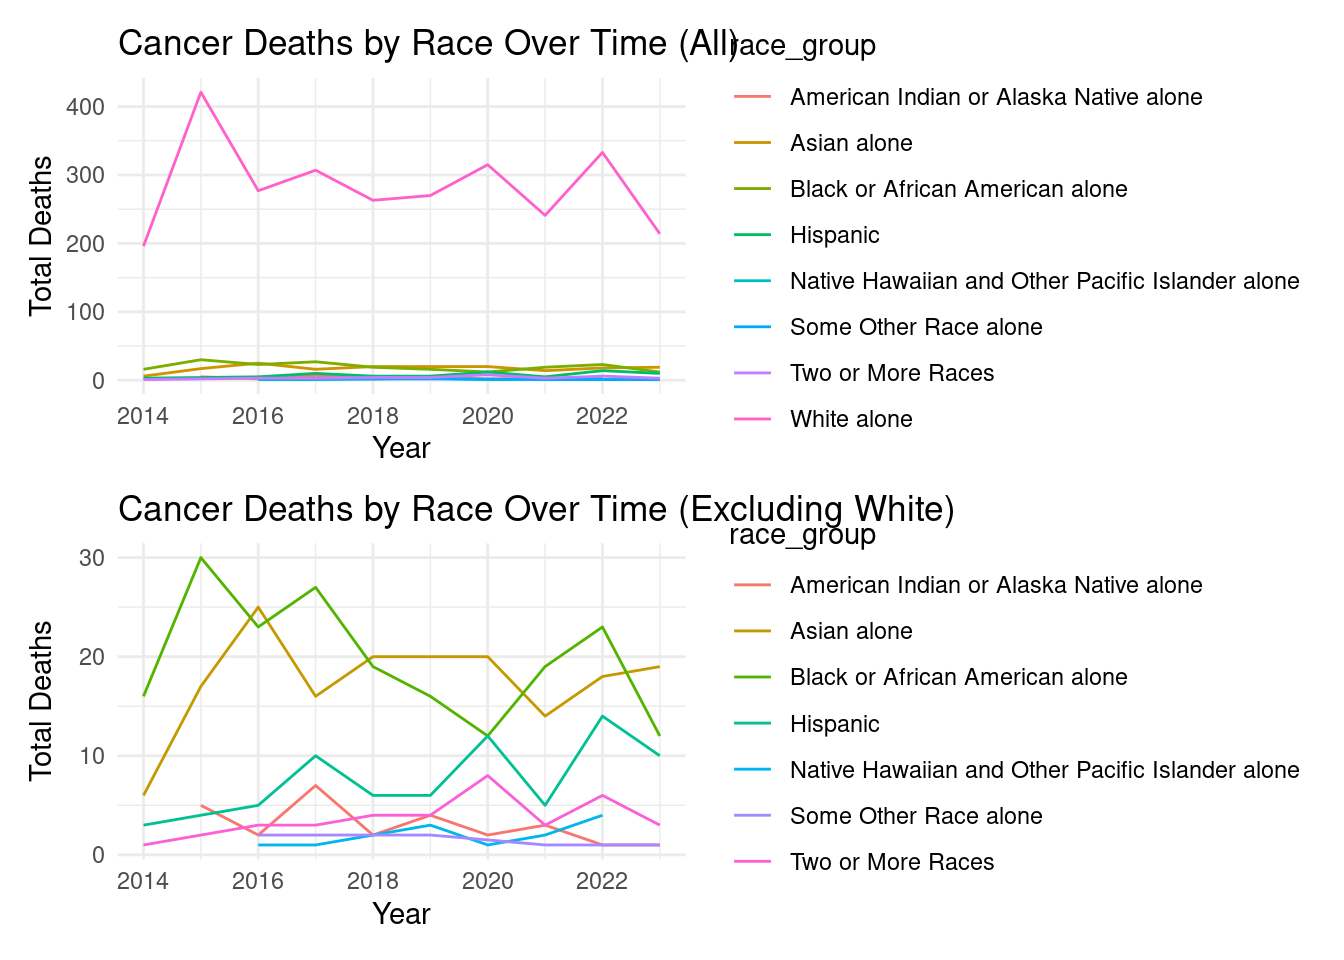
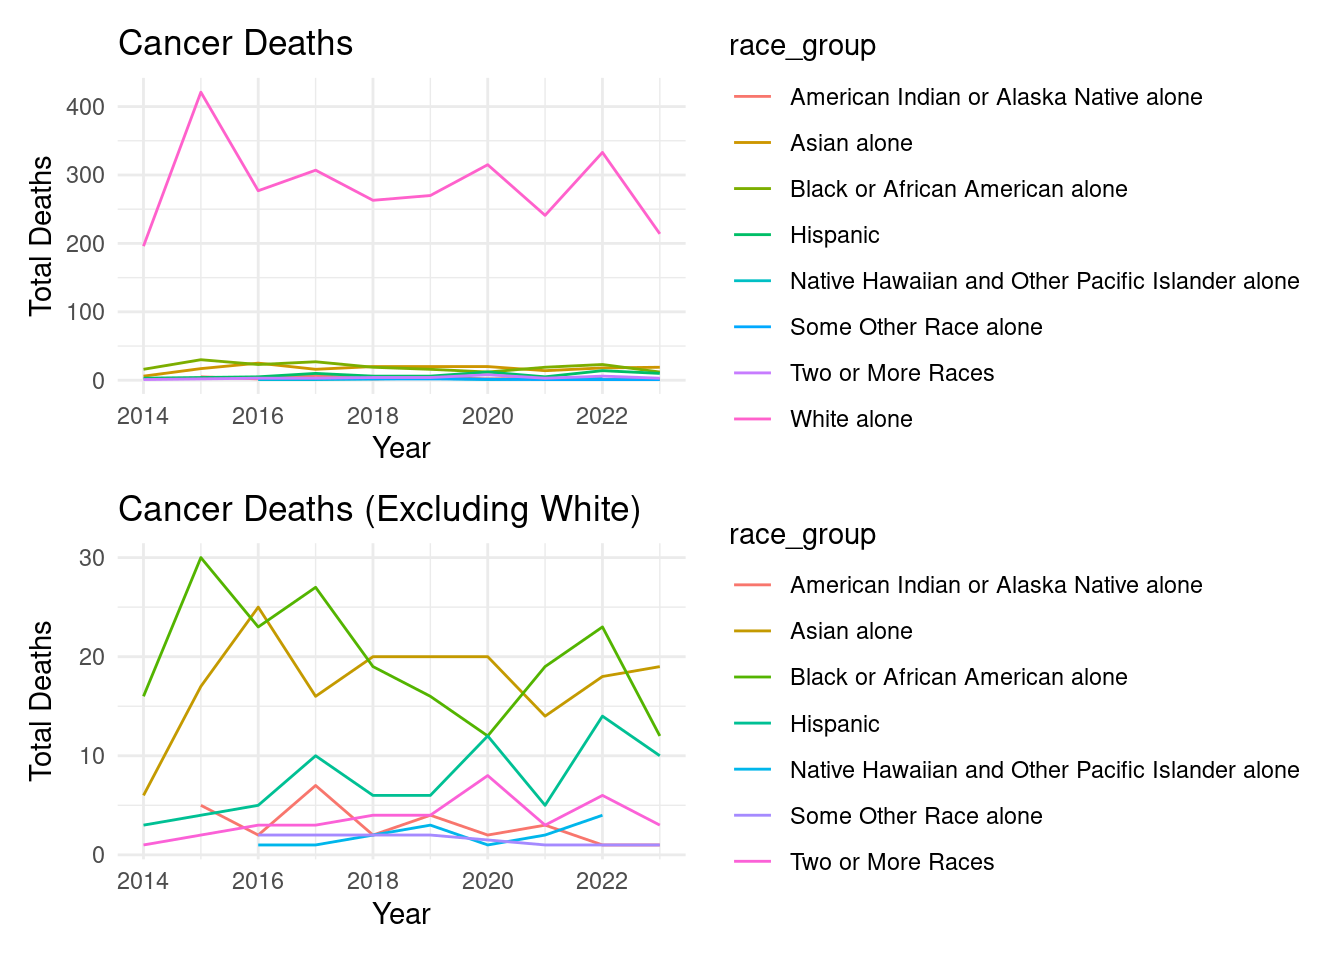
editing title on graphs

Changed region(s): [[0.2812, 0.5, 0.7188, 0.5625], [0.25, 0.0312, 0.5625, 0.0625]]

diff --git a/docs/findings.html b/docs/findings.html
@@ -272,7 +272,7 @@ ul.task-list li input[type="checkbox"] {
 </div>
 </div>
 </div>
-<p>Here is a bar plot of white individuals only. It was separated from the previous graph due to the high volume of entries.</p>
+<p>Above is a bar plot of white individuals only. It was separated from the previous graph due to the high volume of entries.</p>
 <div class="center-plot">
 <div class="cell">
 <div class="cell-output-display">
@@ -284,6 +284,7 @@ ul.task-list li input[type="checkbox"] {
 </div>
 </div>
 </div>
+<p>Finally, here is a line chart visualizing all cancer deaths by race overtime, with white entires seperated to clearly show each variable.</p>
 
 
 
